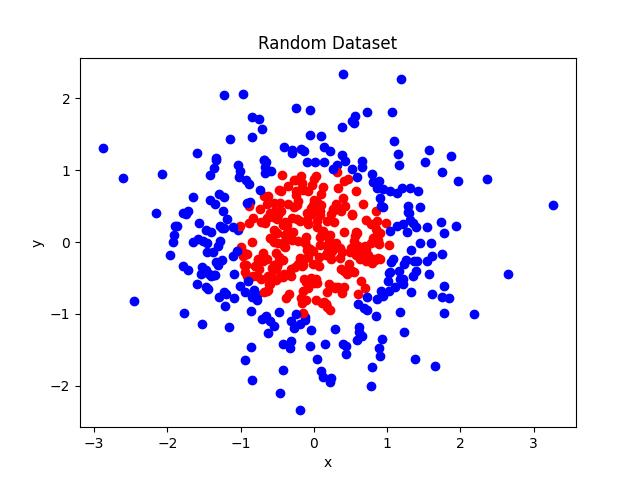
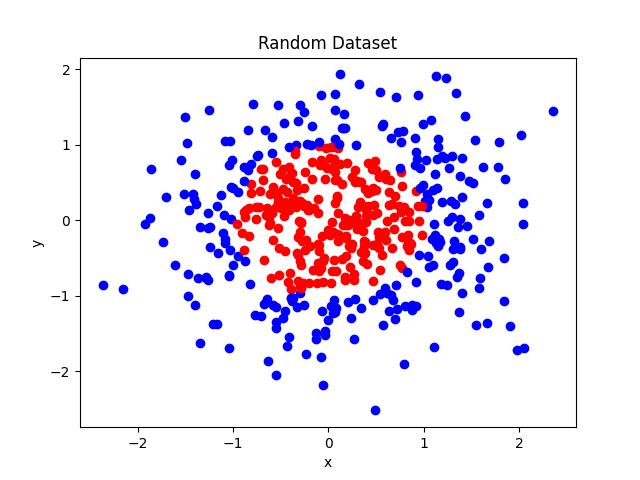
things are messed up here

diff --git a/src/assignment1.py b/src/assignment1.py
@@ -230,7 +230,7 @@ def make_graphs(data, y_true):
     ax.set_title('Random Dataset')
     ax.set_xlabel('x')
     ax.set_ylabel('y')
-    plt.savefig(f'../DeepLearning/Data_visualization.jpg')
+    plt.savefig(f'../Data_visualization.jpg')
 
 
 def sigmoid(vector):
@@ -274,7 +274,6 @@ def split_data(data, factor):
 
 
 def main():
-    random.seed(10)
     #Call functions here
     #random.seed(8)
 
@@ -285,7 +284,7 @@ def main():
     input_size = [2]
     output_size = [1]
     hidden_layers = [6, 6]
-    Iteration_Epochs = 2000
+    Iteration_Epochs = 100
 
     ##10 times model run with crossvalidation###
     loss = np.zeros(Iteration_Epochs)
@@ -293,7 +292,7 @@ def main():
     kerasloss = np.zeros(Iteration_Epochs)
     kerasaccuracy = np.zeros(Iteration_Epochs)
 
-    runs = 10
+    runs = 3
     overall_NN_test_acc = []
     overall_keras_test_acc = []
     overall_NN_time = []
@@ -310,6 +309,7 @@ def main():
         NNtime = time.time() - start_time
         start_time = time.time()
         history, model = keras_learning(data_train, input_size, output_size, hidden_layers, Batch_Size, Iteration_Epochs, optimizer = SGD(learning_rate=0.8, momentum=0.2))
+        
         kerastime = time.time() - start_time
         kerasloss2 = history.history['loss']
         kerasaccuracy2 = history.history['accuracy']
@@ -357,19 +357,7 @@ def main():
     #         print(hidden_layers, optimizer.learning_rate, testhistory)
 
 
-    
-    #keras_learning(data, input_size, output_size, hidden_layers, Batch_Size, Iteration_Epochs)
-    #NN.test_network(data_test)
-
-    
-    
-    # print('layers:', NN.layers)
-
-    #initialize first layer
-
-
-    #make_graphs(data[0], data[1])
-    #print("data:", data)
+    make_graphs(data[0], data[1])
     
     
 
